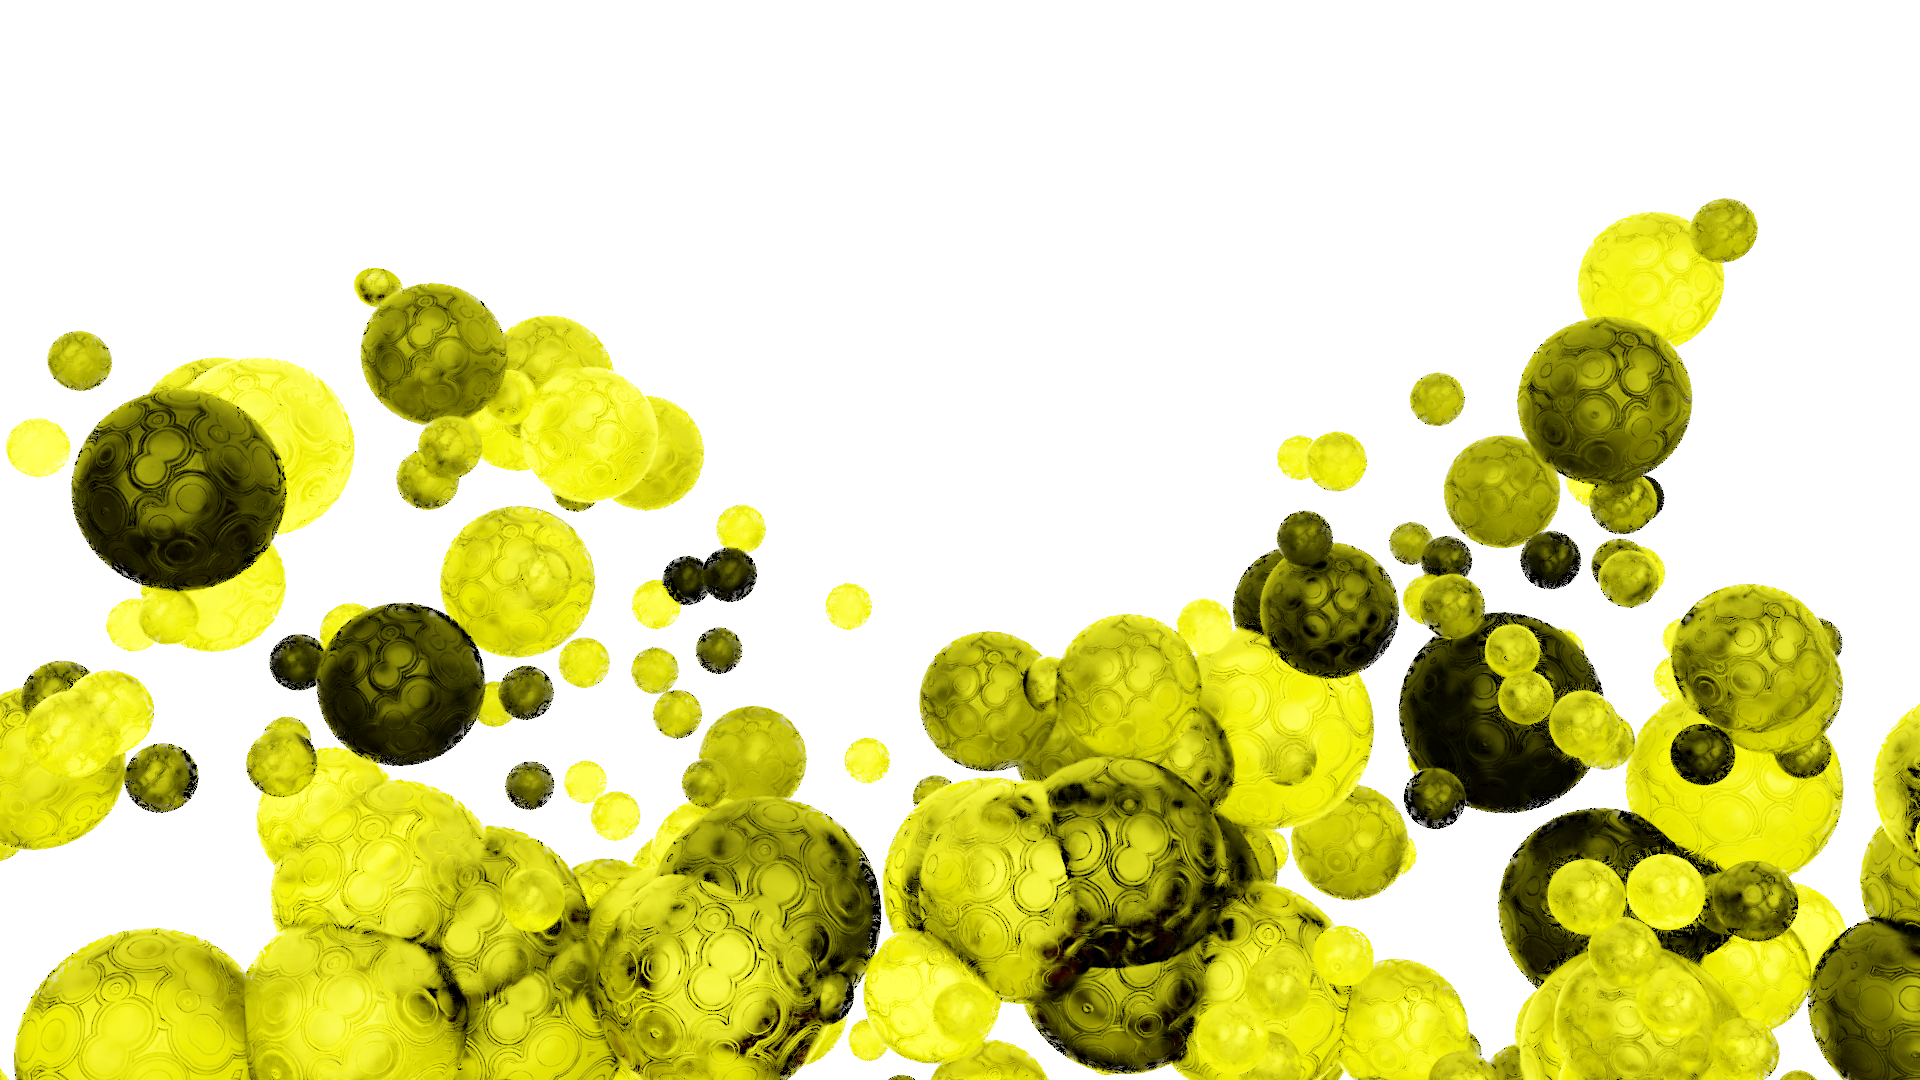
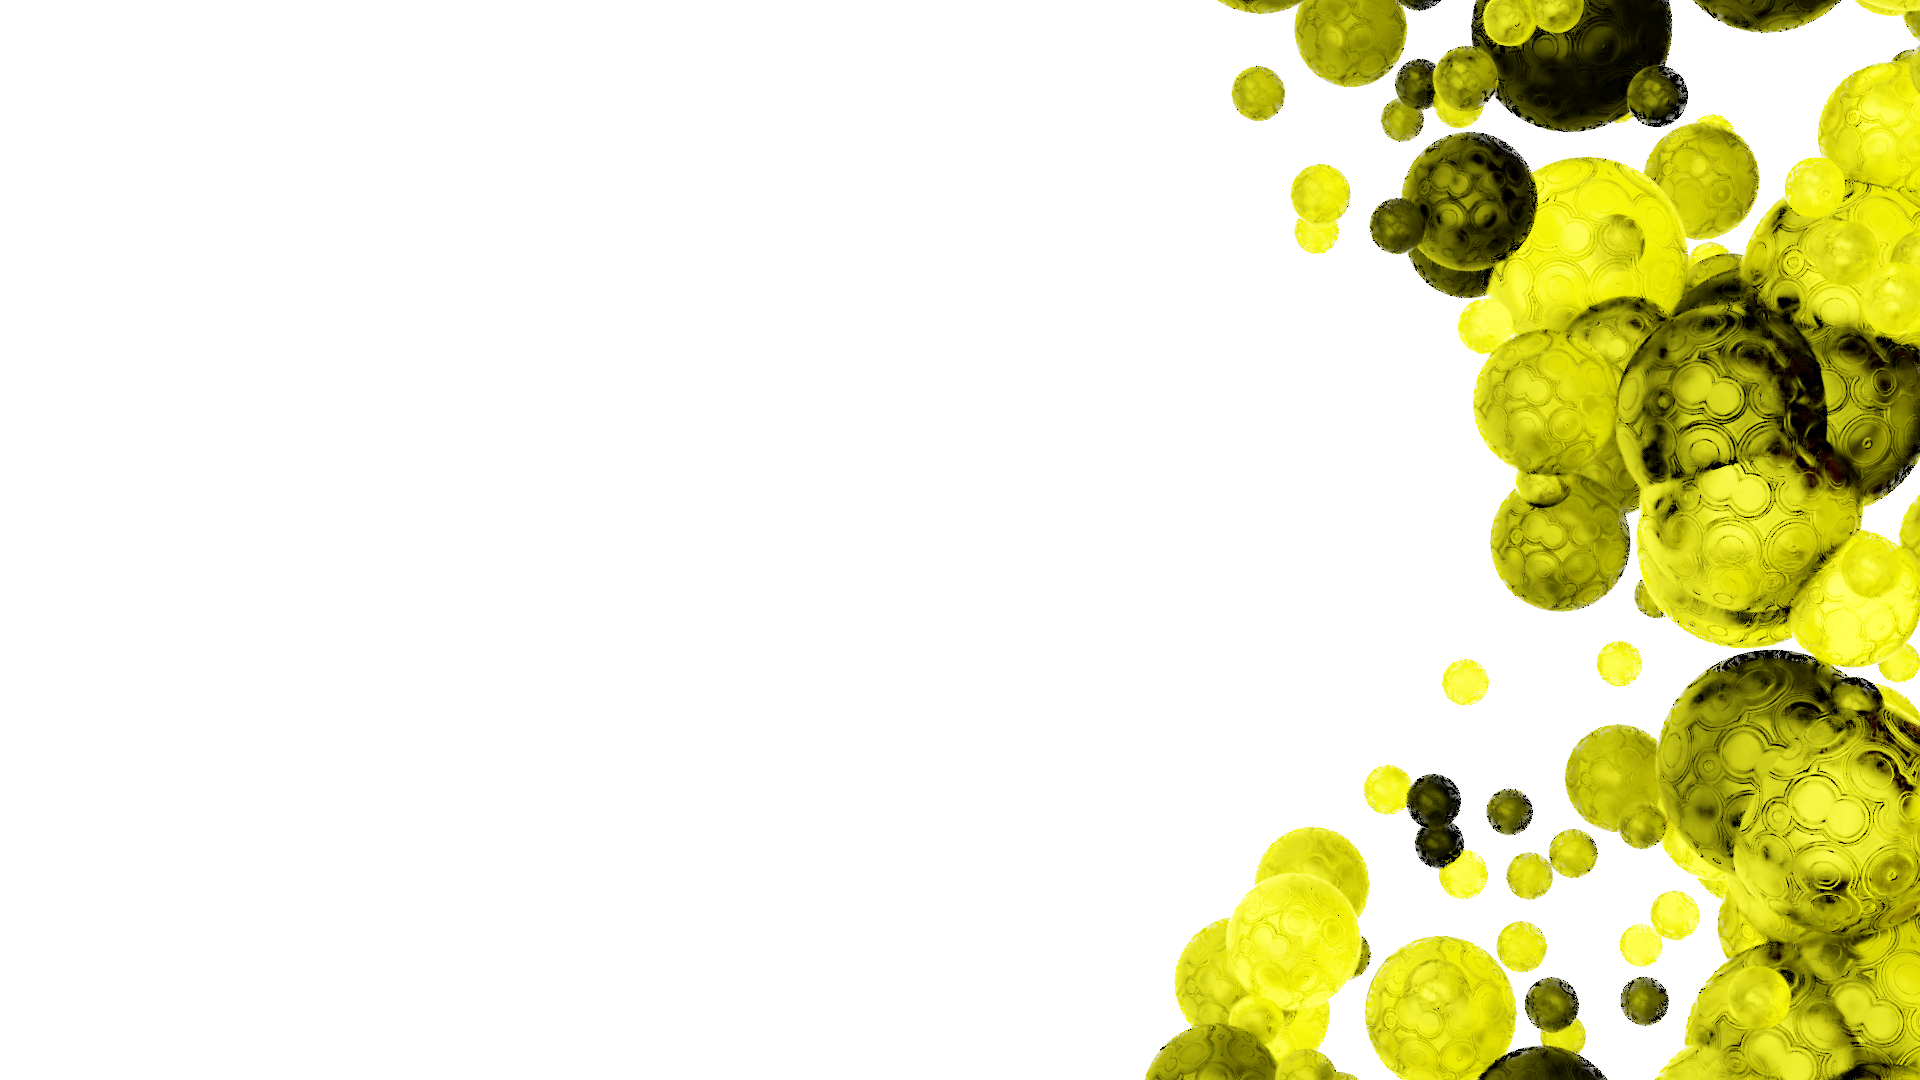
Updates

diff --git a/code.html b/code.html
@@ -59,19 +59,20 @@
               <h2>Skoda-Auto</h2>
               <a class="close" href="#">&times;</a>
               <div class="popcontent">
-                Lorem ipsum dolor sit amet consectetur adipisicing elit.
-                Reiciendis, quod molestiae aut, distinctio mollitia dolorum
-                inventore sunt voluptatum vel cum deleniti eaque id! Fugiat
-                obcaecati reprehenderit enim id culpa tempore facilis, hic
-                cupiditate ut exercitationem doloremque dolorem ipsum dicta?
-                Maxime facilis aspernatur magnam tenetur sapiente atque veniam
-                molestias saepe harum?
+                This is the main project in my current work. I am working on a
+                website designated for manual testers and analysts. The web page
+                includes email server, jenkins and analysis tools. In Jenkins
+                can be found various automated tests written in selenium
+                (testing of GUI) or made in Postman (testing of API).
+                Unfortunatelly I cannot offer the source code.
               </div>
             </div>
           </div>
           <a href="#" class="btn-dark disabled">
             <i class="fab fa-github"></i> Github code
           </a>
+          <code>python</code> <code>javascript</code> <code>html</code>
+          <code>css</code> <code>postman</code> <code>jenkins</code>
         </div>
         <div class="item">
           <a href="https://github.com/Ajuska/kiwi">
@@ -85,19 +86,16 @@
               <h2>Kiwi initial task</h2>
               <a class="close" href="#">&times;</a>
               <div class="popcontent">
-                Lorem ipsum dolor sit amet consectetur adipisicing elit.
-                Reiciendis, quod molestiae aut, distinctio mollitia dolorum
-                inventore sunt voluptatum vel cum deleniti eaque id! Fugiat
-                obcaecati reprehenderit enim id culpa tempore facilis, hic
-                cupiditate ut exercitationem doloremque dolorem ipsum dicta?
-                Maxime facilis aspernatur magnam tenetur sapiente atque veniam
-                molestias saepe harum?
+                This project shows how I can deal with given task. I was asked
+                to create API and CLI application which should work as currency
+                convertor.
               </div>
             </div>
           </div>
           <a href="https://github.com/Ajuska/kiwi" class="btn-dark">
             <i class="fab fa-github"></i> Github code
           </a>
+          <code>python</code>
         </div>
         <div class="item">
           <a href="https://ajuska.github.io/myportfolio">
@@ -111,19 +109,22 @@
               <h2>My portfolio</h2>
               <a class="close" href="#">&times;</a>
               <div class="popcontent">
-                Lorem ipsum dolor sit amet consectetur adipisicing elit.
-                Reiciendis, quod molestiae aut, distinctio mollitia dolorum
-                inventore sunt voluptatum vel cum deleniti eaque id! Fugiat
-                obcaecati reprehenderit enim id culpa tempore facilis, hic
-                cupiditate ut exercitationem doloremque dolorem ipsum dicta?
-                Maxime facilis aspernatur magnam tenetur sapiente atque veniam
-                molestias saepe harum?
+                This project was created to show my current work and to learn
+                SCSS. The sceleton is based on a great
+                <a
+                  href="https://www.youtube.com/watch?v=gYzHS-n2gqU&t=1024s"
+                  class="text-secondary"
+                  >Traversy Media tutorial</a
+                >. For backround image was used free open-source 3D software
+                called Blender.
               </div>
             </div>
           </div>
           <a href="https://github.com/Ajuska/myportfolio" class="btn-dark">
             <i class="fab fa-github"></i> Github code
           </a>
+          <code>html</code> <code>scss</code><code>javascript</code
+          ><code>blender</code>
         </div>
       </div>
     </main>

diff --git a/about.html b/about.html
@@ -55,38 +55,72 @@
         <div class="bio">
           <h3 class="text-secondary">BIO</h3>
           <p>
-            Lorem ipsum dolor sit amet consectetur adipisicing elit. Nostrum
-            consectetur corporis facilis natus? Molestiae ab sunt, ad
-            repudiandae unde dicta officiis voluptate fugiat? Illum quo
-            accusantium architecto expedita nesciunt pariatur?
+            I am constantly curious how things work. In soul I am creative
+            person who can find curiosities in everything. I love when
+            technology connects with art - you can do unspeakable things. Now I
+            am more focused in programming. In a way I find it also creative. I
+            hope that the more I am skilled in programming the more I can
+            contribute to socienty. I am currenty working as python developer at
+            Ixperta, Brno.
           </p>
         </div>
         <div class="job job-1">
-          <h3>123 Webshop</h3>
-          <h6>At Google</h6>
-          <p>
-            Lorem ipsum dolor sit amet, consectetur adipisicing elit.
-            Repudiandae rem autem, id inventore nisi sit quos nostrum provident
-            in alias!
-          </p>
+          <h3>Pyhon developer</h3>
+          <h6>
+            At
+            <a href="https://www.ixperta.com/" class="text-secondary"
+              >Ixperta</a
+            >
+          </h6>
+          <p>Project for SKODA AUTO a.s. - product SKODA Connect</p>
+          <ul>
+            <li>design and implementation of automated tests</li>
+            <li>
+              creation of python web application and API for manual testers
+            </li>
+            <li>
+              writing, maitanance and automatization of tests for various APIs
+              in Postman
+            </li>
+            <li>co-operation with coleagues in Mlada Boleslav</li>
+          </ul>
         </div>
         <div class="job job-2">
-          <h3>Fullstack developer</h3>
-          <h6>At Yahooowohoo</h6>
+          <h3>3D artist</h3>
+          <h6>Freelance</h6>
           <p>
-            Lorem ipsum dolor sit amet, consectetur adipisicing elit.
-            Repudiandae rem autem, id inventore nisi sit quos nostrum provident
-            in alias!
+            Project for
+            <a href="https://fitzandhuxley.com/" class="text-secondary"
+              >Fitz & Huxley</a
+            >
           </p>
+          <ul>
+            <li>creation of 3D models of the bag</li>
+            <li>creation of procedural textures</li>
+            <li>exporting textures and optimalization for virtual reality</li>
+          </ul>
         </div>
         <div class="job job-3">
-          <h3>Frontedn Developer</h3>
-          <h6>At AjaSolutions</h6>
-          <p>
-            Lorem ipsum dolor sit amet, consectetur adipisicing elit.
-            Repudiandae rem autem, id inventore nisi sit quos nostrum provident
-            in alias!
-          </p>
+          <h3>Process executive with portuguese language</h3>
+          <h6>
+            At
+            <a href="https://www.infosys.com/" class="text-secondary"
+              >Infosys</a
+            >
+          </h6>
+          <p>Project for Maps Services Company</p>
+          <ul>
+            <li>
+              Interpret issues reported by internal and external map users
+            </li>
+            <li>Coaching</li>
+            <li>Edit the map content</li>
+            <li>Cooperation within the team</li>
+            <li>
+              Handle day to day transactions/tickets using client provided
+              tools, guidelines and policies
+            </li>
+          </ul>
         </div>
       </div>
     </main>

diff --git a/css/main.css b/css/main.css
@@ -14,12 +14,12 @@
   .menu-btn.close {
     transform: rotate(180deg); }
     .menu-btn.close .btn-line:nth-child(1) {
-      background: #e6cd43;
+      background: #fce306;
       transform: rotate(45deg) translate(5px, 5px); }
     .menu-btn.close .btn-line:nth-child(2) {
       opacity: 0; }
     .menu-btn.close .btn-line:nth-child(3) {
-      background: #e6cd43;
+      background: #fce306;
       transform: rotate(-45deg) translate(7px, -5.5px); }
 
 .menu {
@@ -59,14 +59,14 @@
       height: 250px;
       background: url(../img/profile_picture.jpeg);
       border-radius: 50%;
-      border: solid 4px #e6cd43; }
+      border: solid 4px #fce306; }
   .menu .nav-item {
     transform: translate3d(600px, 0, 0);
     transition: all 0.5s ease-out; }
     .menu .nav-item.show {
       transform: translate3d(0, 0, 0); }
     .menu .nav-item.current > a {
-      color: #e6cd43; }
+      color: #fce306; }
   .menu .nav-link {
     display: inline-block;
     position: relative;
@@ -78,7 +78,7 @@
     text-decoration: none;
     transition: all 0.5s ease-out; }
     .menu .nav-link:hover {
-      color: #e6cd43; }
+      color: #fce306; }
 
 .nav-item:nth-child(1) {
   transition-delay: 0.1s; }
@@ -136,13 +136,13 @@ h3 {
     background: rgba(58, 57, 57, 0.5); }
 
 .text-secondary {
-  color: #e6cd43; }
+  color: #fce306; }
 
 a {
   color: #fff;
   text-decoration: none; }
   a.text-secondary:hover {
-    color: #f2e59d;
+    color: #fdee6b;
     transition: all 0.5s ease-out; }
 
 header {
@@ -159,12 +159,12 @@ main {
       padding: 0.4rem;
       color: #fff; }
       main .icons a:hover {
-        color: #e6cd43;
+        color: #fce306;
         transition: all 0.5s ease-out; }
   main#home {
     overflow: hidden; }
     main#home h1 {
-      margin-top: 20vh; }
+      margin-top: 25vh; }
 
 .about-info {
   display: grid;
@@ -175,7 +175,7 @@ main {
     grid-area: bioimage;
     margin: auto;
     border-radius: 50%;
-    border: #e6cd43 5px solid; }
+    border: #fce306 5px solid; }
   .about-info .bio {
     grid-area: bio; }
   .about-info .job-1 {
@@ -187,7 +187,18 @@ main {
   .about-info .job {
     background: #424141;
     padding: 0.5rem;
-    border-bottom: #e6cd43 7px solid; }
+    border-bottom: #fce306 7px solid; }
+
+code {
+  float: left;
+  text-transform: uppercase;
+  font-size: 0.9em;
+  color: #000;
+  background-color: #e6cf03;
+  padding: 0.3rem 0.3rem;
+  margin: 0.3rem;
+  box-shadow: 0 3px 0 #9a8b02;
+  border-radius: 3px; }
 
 .projects {
   display: grid;
@@ -201,7 +212,7 @@ main {
     background: #fff; }
     .projects img:hover {
       opacity: 0.5;
-      border-color: #e6cd43;
+      border-color: #fce306;
       transition: all 0.5s ease-out; }
 
 .boxes {
@@ -218,7 +229,7 @@ main {
     transition: all 0.5s ease-out; }
     .boxes div:hover {
       padding: 0.5rem 1.5rem;
-      background: #e6cd43;
+      background: #fce306;
       color: #000; }
       .boxes div:hover span {
         color: #000; }
@@ -229,7 +240,7 @@ main {
   border: 0;
   margin-bottom: 0.3rem; }
   .btn:hover, .btn-light:hover, .btn-dark:hover {
-    background: #e6cd43;
+    background: #fce306;
     color: #000;
     transition: all 0.5s ease-out; }
   .btn.disabled, .disabled.btn-light, .disabled.btn-dark {
@@ -286,7 +297,7 @@ main {
     text-decoration: none;
     color: #fff; }
     .popup .close:hover {
-      color: #e6cd43;
+      color: #fce306;
       transition: all 0.5s ease-out; }
   .popup .popcontent {
     max-height: 30%;

diff --git a/work3D.html b/work3D.html
@@ -52,11 +52,11 @@
             <img src="img/3d/backpack.jpg" alt="SOLSTICE_backpack" />
           </a>
           <a href="#backpack" class="btn-light">
-            <i class="fa fa-info-circle"></i> SOLSTICE backpack
+            <i class="fa fa-info-circle"></i> SOLSTICE backpack, Fitz & Huxley
           </a>
           <div id="backpack" class="popup-overlay">
             <div class="popup">
-              <h2>Skoda-Auto</h2>
+              <h2>SOLSTICE backpack</h2>
               <a class="close" href="#">&times;</a>
               <h4>Description:</h4>
               <div class="popcontent">
@@ -120,7 +120,7 @@
           </a>
           <div id="bulbs" class="popup-overlay">
             <div class="popup">
-              <h2>Skoda-Auto</h2>
+              <h2>Light Bulbs</h2>
               <a class="close" href="#">&times;</a>
               <h4>Description:</h4>
               <div class="popcontent">
@@ -153,7 +153,7 @@
           </a>
           <div id="lowpoly" class="popup-overlay">
             <div class="popup">
-              <h2>Skoda-Auto</h2>
+              <h2>Lowpoly world</h2>
               <a class="close" href="#">&times;</a>
               <h4>Description:</h4>
               <div class="popcontent">
